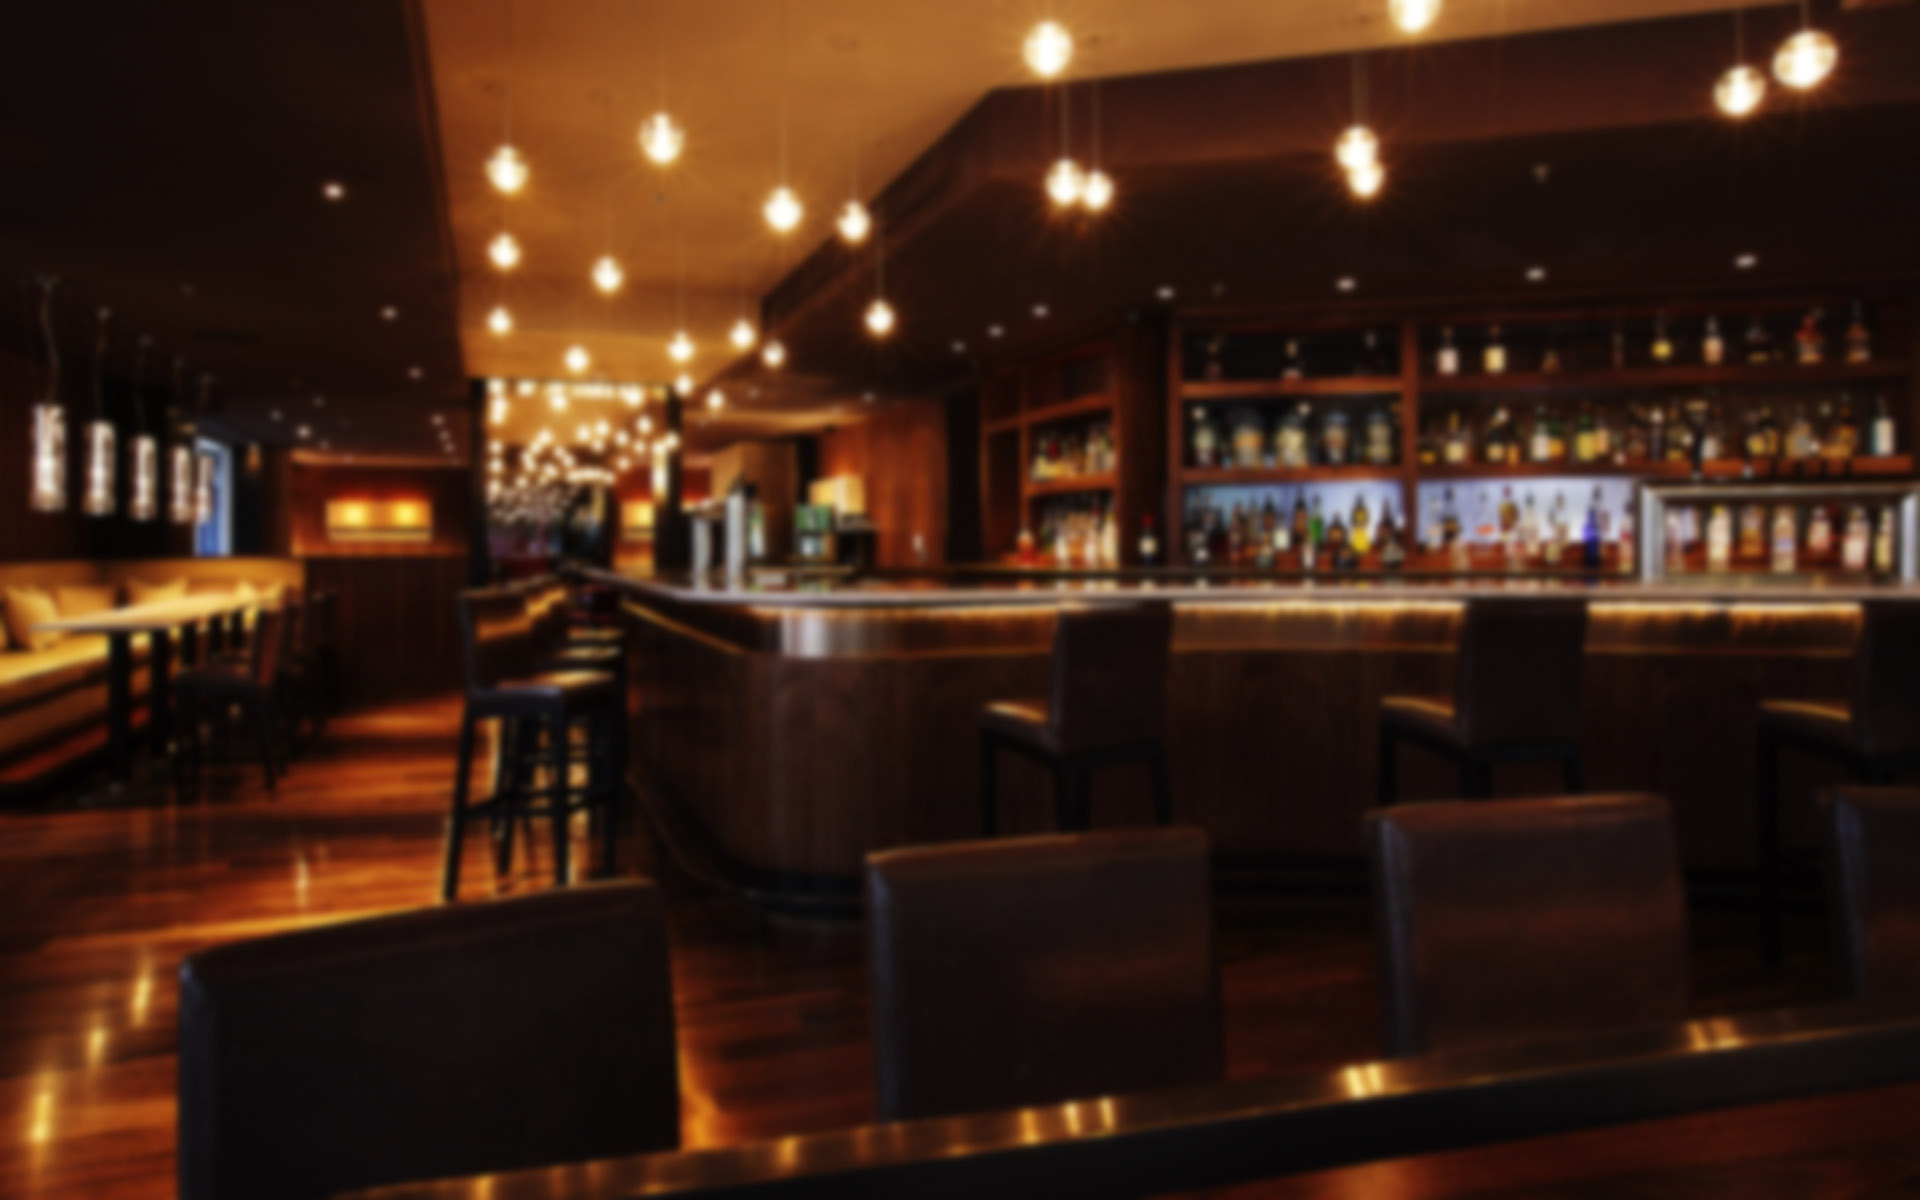
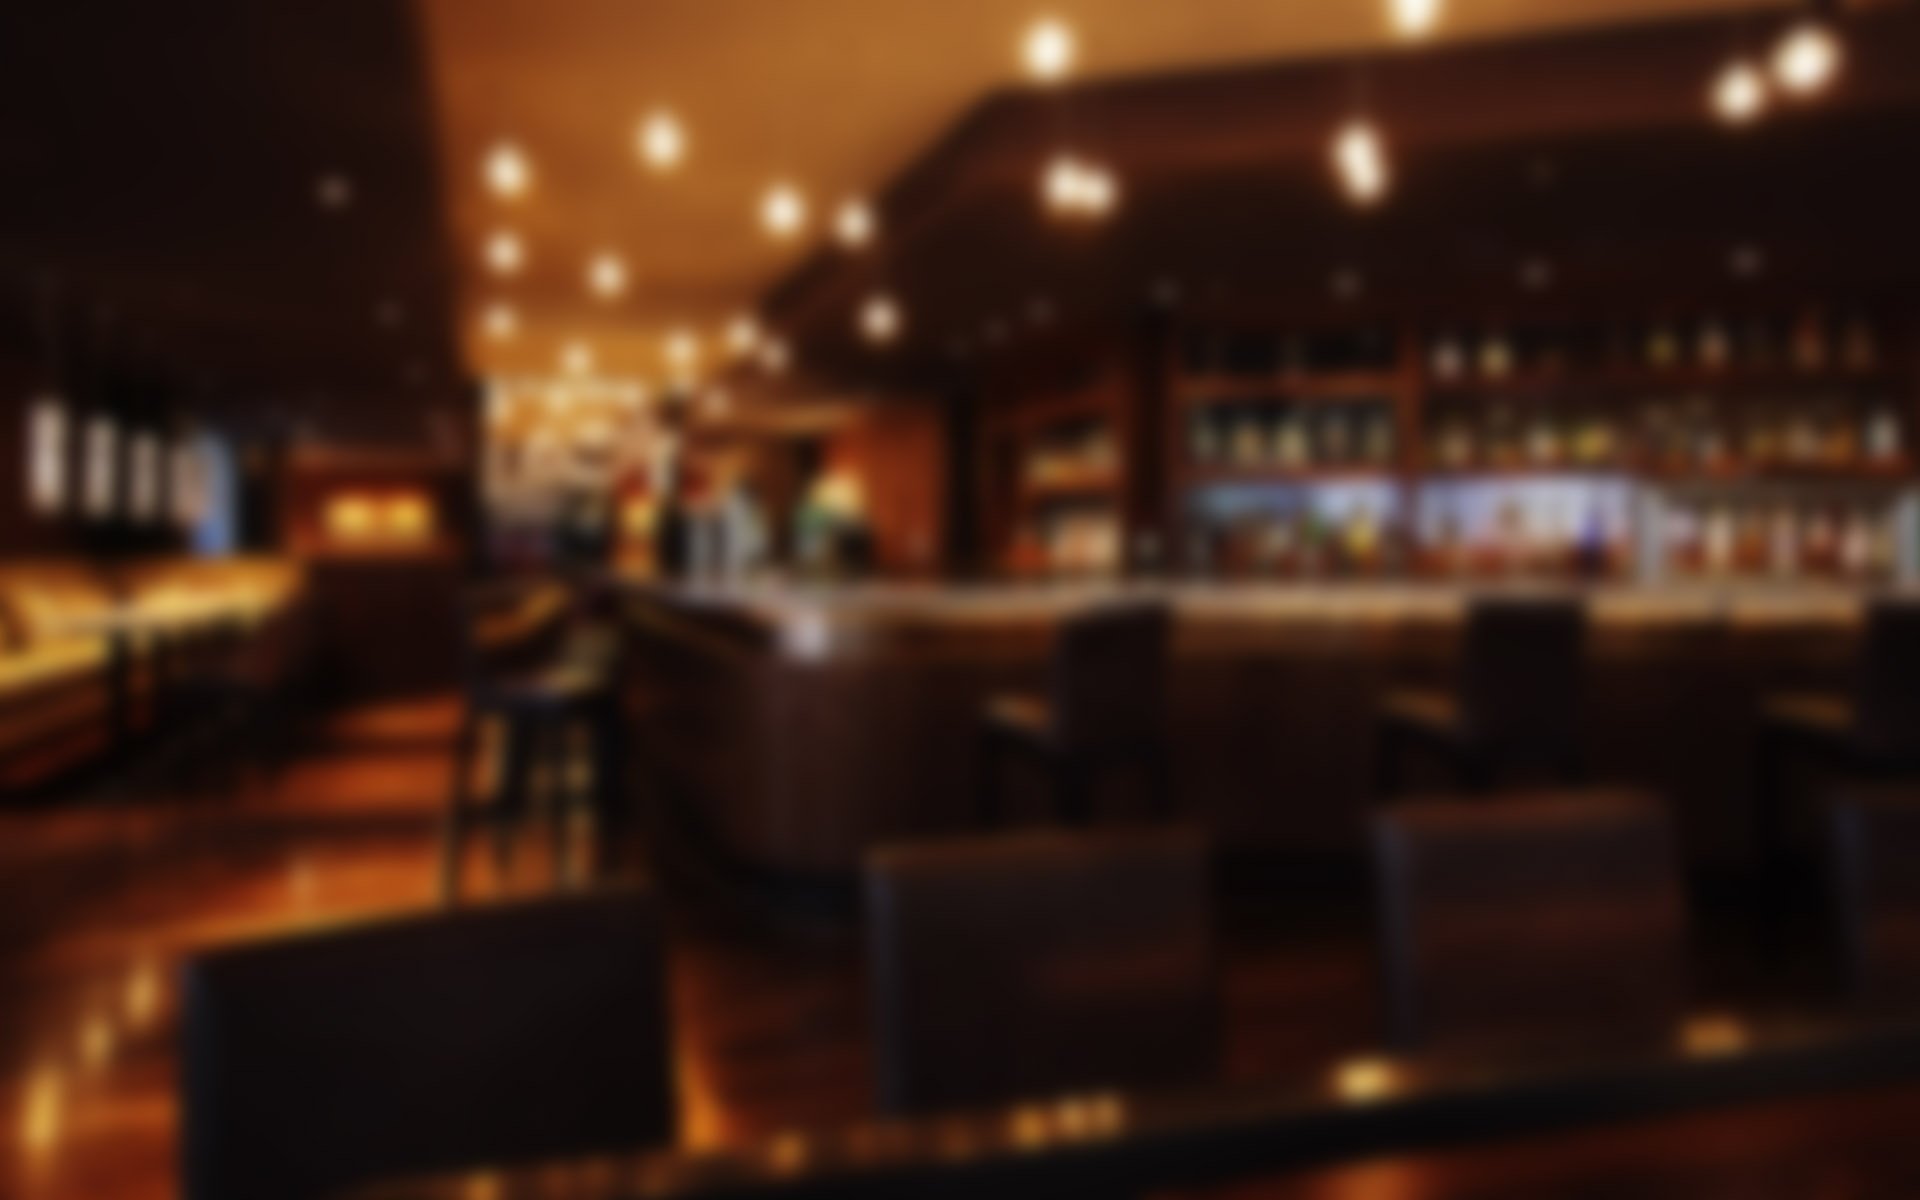
Style fixes + cleanup
- Added blur to restaurant-img.jpg
- Added comments to bstyle.css
- Style tweaks

diff --git a/app/assets/stylesheets/bstyle.css b/app/assets/stylesheets/bstyle.css
@@ -134,10 +134,12 @@ and (max-device-width: 767px) {
 	}
 }
 
+/* White Sections */
 .lighter-background{
 	color: #D83C33;
 	background-color: white;
 }
+/* Red Sections */
 .darker-background{
 	color: #FBEAEA;
 	background-color: #D83C33;
@@ -335,6 +337,7 @@ footer{
 	color: #B4B4B4;
 }
 
+/* Numbered List */
 #num-list {
 	counter-reset: list-count;
 	font-family: cusTitleFont;
@@ -364,6 +367,7 @@ footer{
 	margin-bottom: 10px;
 }
 
+/* Restaurant image */
 .img-background {
 	background:url("restaurant-img.jpg");
 	background-size: cover;
@@ -373,6 +377,7 @@ footer{
 	position: absolute;
 	left: 0;
 	opacity: 0.9;
+	z-index: -1;
 }
 /*.blur {
  	-webkit-filter: blur(2px);
@@ -400,6 +405,7 @@ footer{
 	min-height: 500px;
 }
 
+/* centers content */
 .center-section {
 	margin-left: auto;
 	margin-right: auto;
@@ -466,24 +472,10 @@ footer{
 		background-color: #323232;
 	}
 }
-/*
-.img-background {
-	background-size: cover;
-	background-image: "/assts/restaurant-img.jpg"
-	background-repeat: no-repeat;
-	position: fixed;
-	width: 100%;
-	height: 100%;
-	top: -20px;
-	left: 0;
-	opacity: 0.9;
-	margin: auto;
-}*/
 
 .offset-bot {
 	padding-bottom: 20px;
 }
-
 .offset-text {
 	padding-top: 12px;
 }
@@ -502,5 +494,5 @@ footer{
 }
 
 .textwidth {
-	width: 100%;
+	width: 90%;
 }
